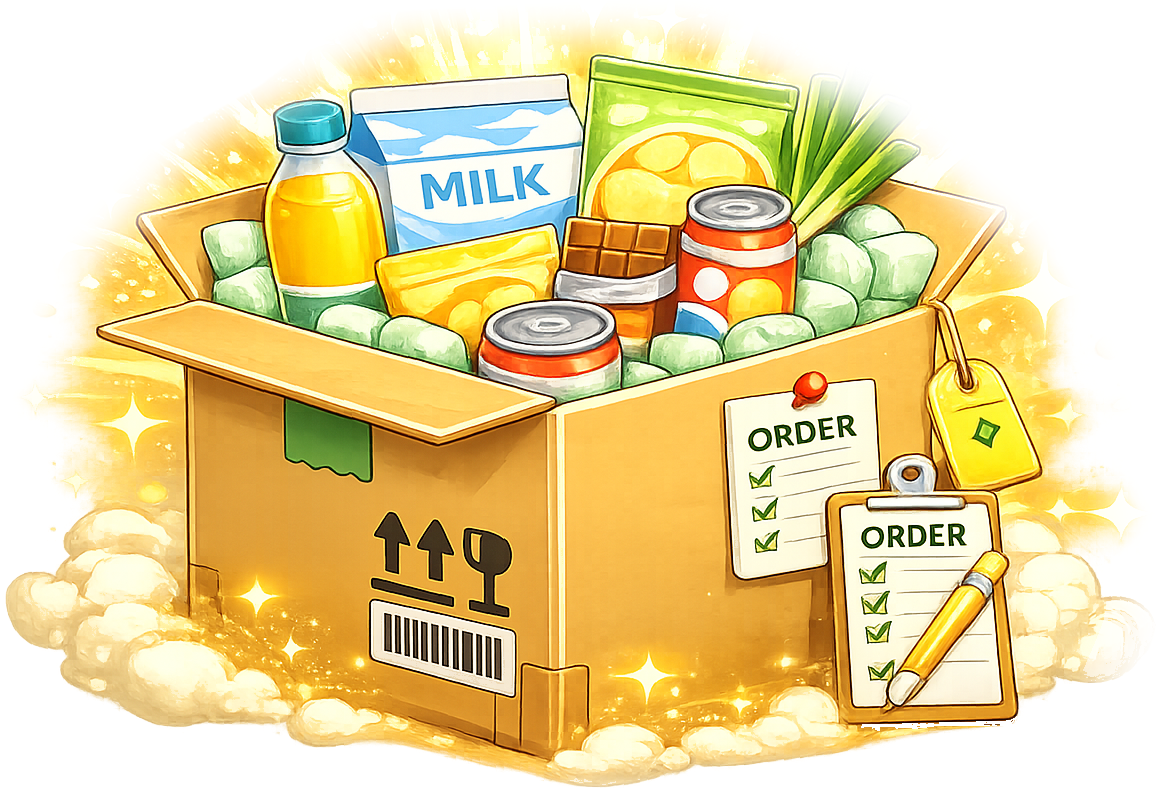
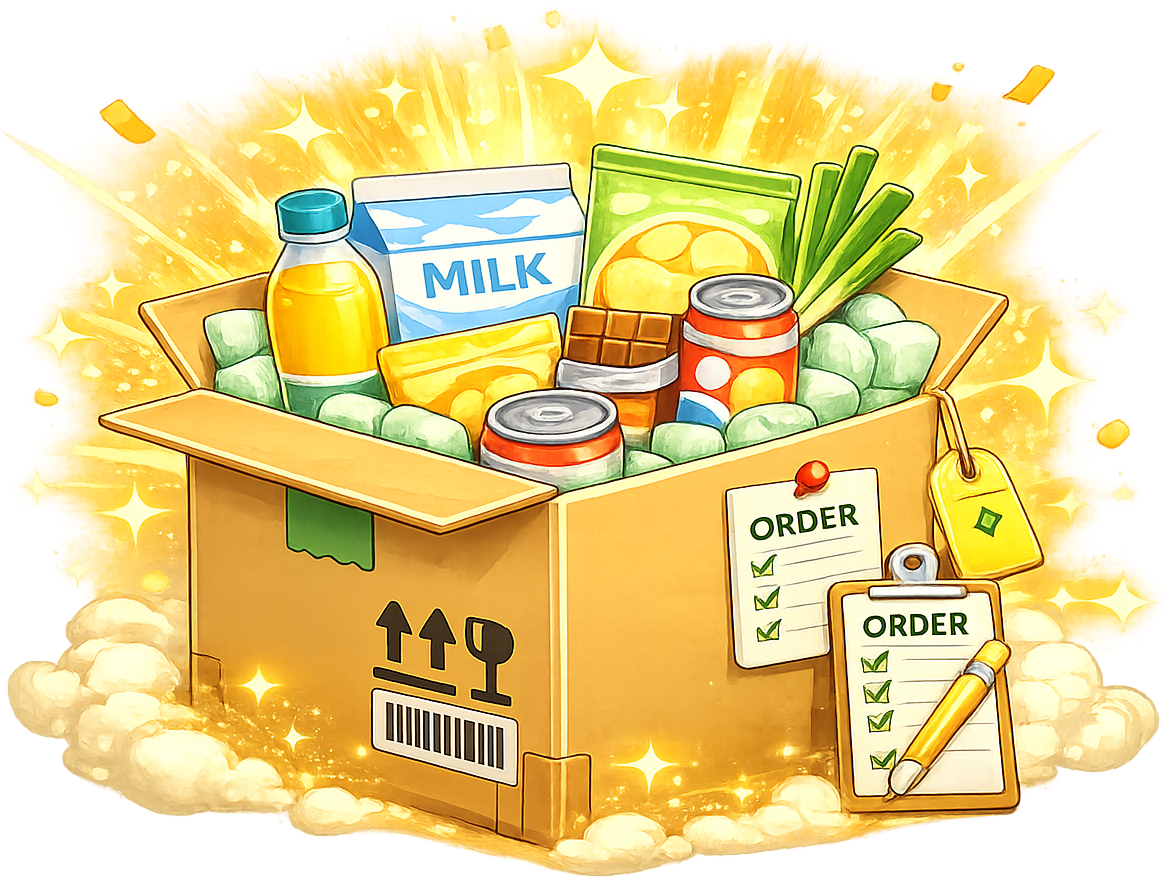
v.7.3 창고/재고 박스 크기 수정

diff --git a/style.css b/style.css
@@ -11583,8 +11583,8 @@ body {
 }
 
 #store-interaction-layer > #delivery-box-zone {
-  left: 538px !important;
-  top: 545px !important;
+  left: 545px !important;
+  top: 553px !important;
 }
 
 /* 해금 후 사용할 2~4번 임시 기능 박스도 새 구역 좌표에 맞춘다. */
@@ -12109,7 +12109,7 @@ body {
   }
 
   .delivered-product-button {
-    min-height: 128px !important;
+    min-height: 112px !important;
     padding: 8px !important;
   }
 
@@ -12120,7 +12120,7 @@ body {
 
   .focused-zone-panel {
     top: calc(100% + 78px) !important;
-    width: 148px !important;
+    width: 131px !important;
     padding: 7px 8px !important;
   }
 
@@ -13177,8 +13177,8 @@ body {
 }
 
 #store-interaction-layer > #delivery-box-zone {
-  left: 538px !important;
-  top: 545px !important;
+  left: 545px !important;
+  top: 553px !important;
 }
 
 #result-modal .modal-content.result-modal-content {
@@ -14055,8 +14055,8 @@ body {
 
 #order-modal .order-product-row {
   grid-template-columns: minmax(250px, 1fr) 172px 126px !important;
-  min-height: 128px !important;
-  height: 128px !important;
+  min-height: 112px !important;
+  height: 112px !important;
   align-items: center !important;
   overflow: hidden !important;
 }
@@ -14183,7 +14183,7 @@ body {
 #store-interaction-layer > #delivery-box-zone,
 #delivery-box-zone.delivery-box-zone {
   width: 92px !important;
-  min-height: 128px !important;
+  min-height: 112px !important;
   padding: 8px 9px !important;
   border-radius: 16px !important;
   gap: 4px !important;
@@ -15956,15 +15956,15 @@ body.is-title-screen-active #game-root {
 #store-interaction-layer > #delivery-box-zone.delivery-box-zone,
 #delivery-box-zone.delivery-box-zone {
   position: absolute !important;
-  left: 538px !important;
-  top: 545px !important;
+  left: 545px !important;
+  top: 553px !important;
   z-index: 240 !important;
-  width: 148px !important;
-  height: 128px !important;
-  min-width: 148px !important;
-  max-width: 148px !important;
-  min-height: 128px !important;
-  max-height: 128px !important;
+  width: 131px !important;
+  height: 112px !important;
+  min-width: 131px !important;
+  max-width: 131px !important;
+  min-height: 112px !important;
+  max-height: 112px !important;
   padding: 0 !important;
   border: 0 !important;
   border-radius: 0 !important;
@@ -16204,4 +16204,36 @@ body.is-title-screen-active #game-root {
     height: 18px !important;
     min-width: 18px !important;
   }
+}
+
+
+/* v7.3.7 delivery box visual wrapper hard reset */
+#store-interaction-layer > #delivery-box-zone.delivery-box-zone,
+#delivery-box-zone.delivery-box-zone,
+#store-interaction-layer > #delivery-box-zone.delivery-box-zone *,
+#delivery-box-zone.delivery-box-zone * {
+  backdrop-filter: none !important;
+  -webkit-backdrop-filter: none !important;
+  box-shadow: none !important;
+}
+
+#store-interaction-layer > #delivery-box-zone.delivery-box-zone,
+#delivery-box-zone.delivery-box-zone,
+#delivery-box-zone.delivery-box-zone .delivery-box-visual,
+#delivery-box-zone.delivery-box-zone .delivery-box-hitbox,
+#delivery-box-zone.delivery-box-zone .delivery-box-visual img,
+#delivery-box-zone.delivery-box-zone::before,
+#delivery-box-zone.delivery-box-zone::after {
+  background: transparent !important;
+  background-image: none !important;
+}
+
+#delivery-box-zone.delivery-box-zone .delivery-box-visual {
+  isolation: isolate !important;
+  overflow: visible !important;
+}
+
+#delivery-box-zone.delivery-box-zone .delivery-box-visual img {
+  image-rendering: auto !important;
+  mix-blend-mode: normal !important;
 }

diff --git a/CHANGELOG.md b/CHANGELOG.md
@@ -1,3 +1,45 @@
+## [v7.3.9] ArriveBox size fine tune
+
+### Changed
+- 발주 도착 박스(ArriveBox) 맵 표시 크기를 추가로 약 5% 축소했습니다.
+- 축소 후 위치가 자연스럽도록 좌표를 미세 조정했습니다.
+
+## [v7.3.8] ArriveBox size tune
+
+### Changed
+- 발주 도착 박스(ArriveBox) 맵 표시 크기를 소폭 축소했습니다.
+- 축소 후에도 입구 오른쪽 배치가 자연스럽게 보이도록 위치를 미세 조정했습니다.
+
+## [v7.3.7] Delivery box wrapper transparency reset
+
+### Fixed
+- ArriveBox 주변에 남아 보이던 직사각형/투명 영역이 에셋이 아니라 래퍼 스타일에서 생기는 상황을 대비해 delivery-box wrapper 전체의 background / backdrop-filter / box-shadow를 강제 제거했습니다.
+- delivery-box visual/img에 투명 배경 강제값을 추가했습니다.
+
+## [v7.3.6] Exact user box assets applied
+
+### Fixed
+- 사용자가 직접 누끼 딴 박스 에셋 원본을 리사이즈/재가공 없이 그대로 적용했습니다.
+- 모든 창고/도착/카테고리 박스 이미지를 사용자가 전달한 최신 파일로 일괄 교체했습니다.
+
+### Maintained
+- 게임 내 표시 크기는 기존 CSS/레이아웃 기준을 유지해 일관되게 보이도록 했습니다.
+
+## [v7.3.5] User-cleaned warehouse box assets applied
+
+### Changed
+- 사용자가 새로 누끼 딴 창고/재고 박스 에셋으로 전면 교체했습니다.
+- arrive/basic/category 박스 에셋을 기존 표시 기준에 맞춰 일관된 크기로 재정렬해 적용했습니다.
+
+### Maintained
+- 기존 창고 박스/도착 박스 배치와 로직 연결은 유지했습니다.
+
+## [v7.3.4] ArriveBox transparent background fix
+
+### Fixed
+- ArriveBox 원본에 남아 있던 반투명 노란 사각 배경/블러 영역을 제거했습니다.
+- 도착 박스는 박스와 상품, 일부 반짝임만 남도록 재마스킹했습니다.
+
 ## [v7.3.3] Warehouse placement and arrival box cleanup hotfix
 
 ### Changed
